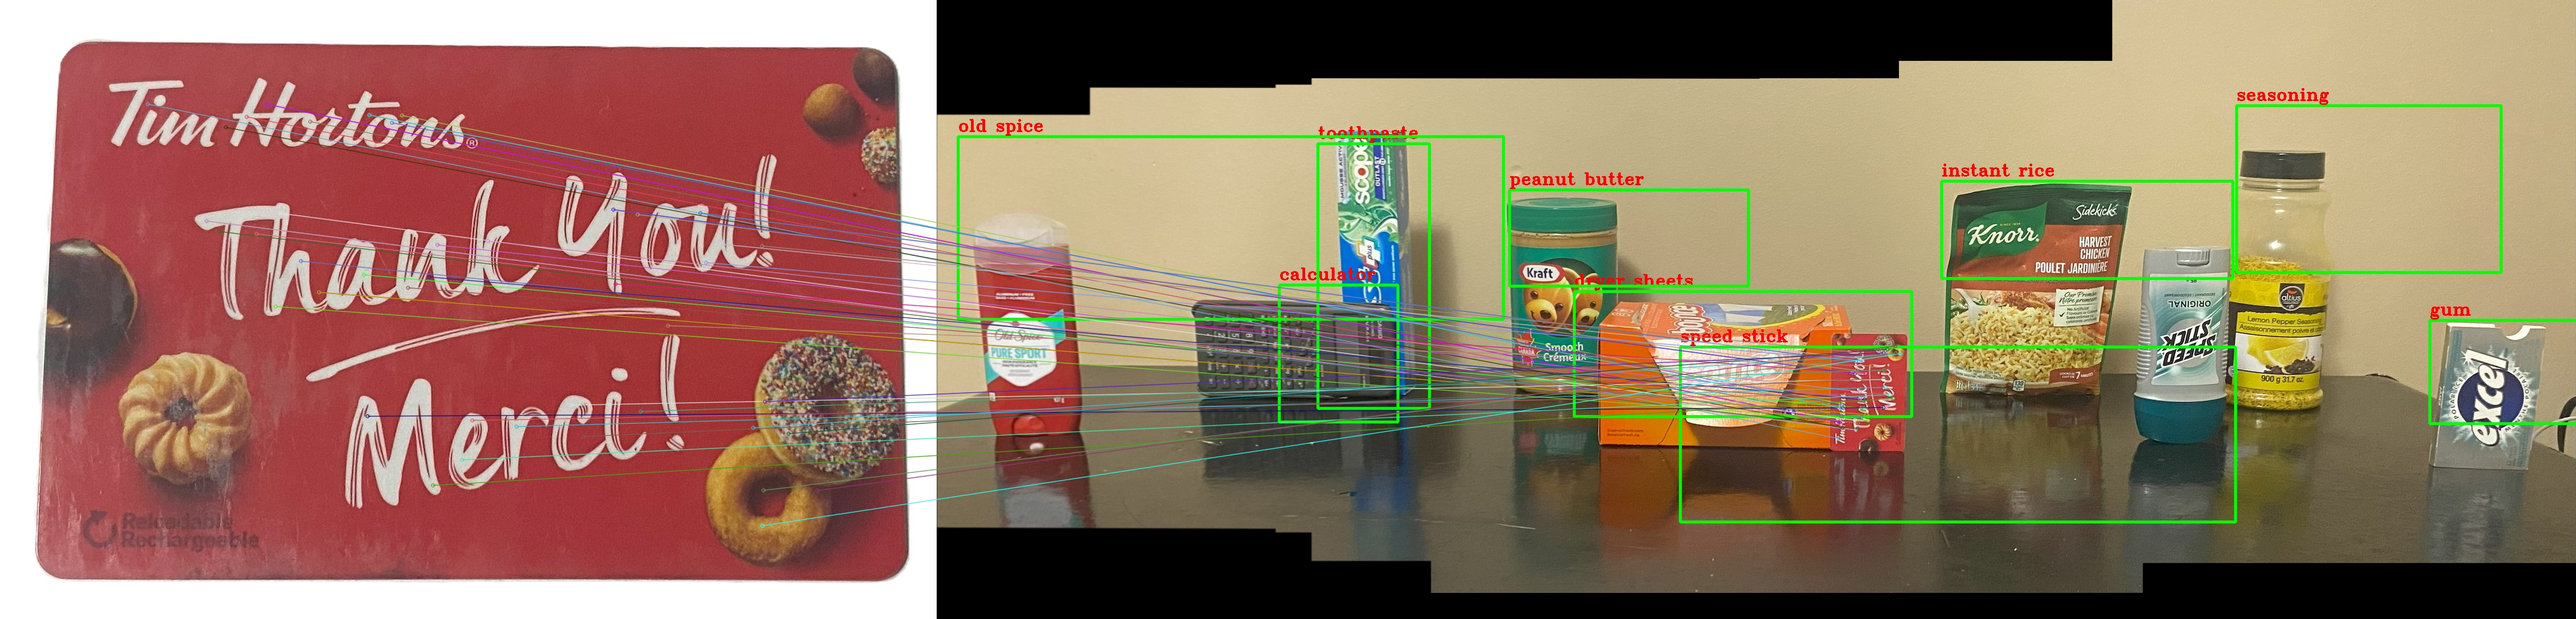
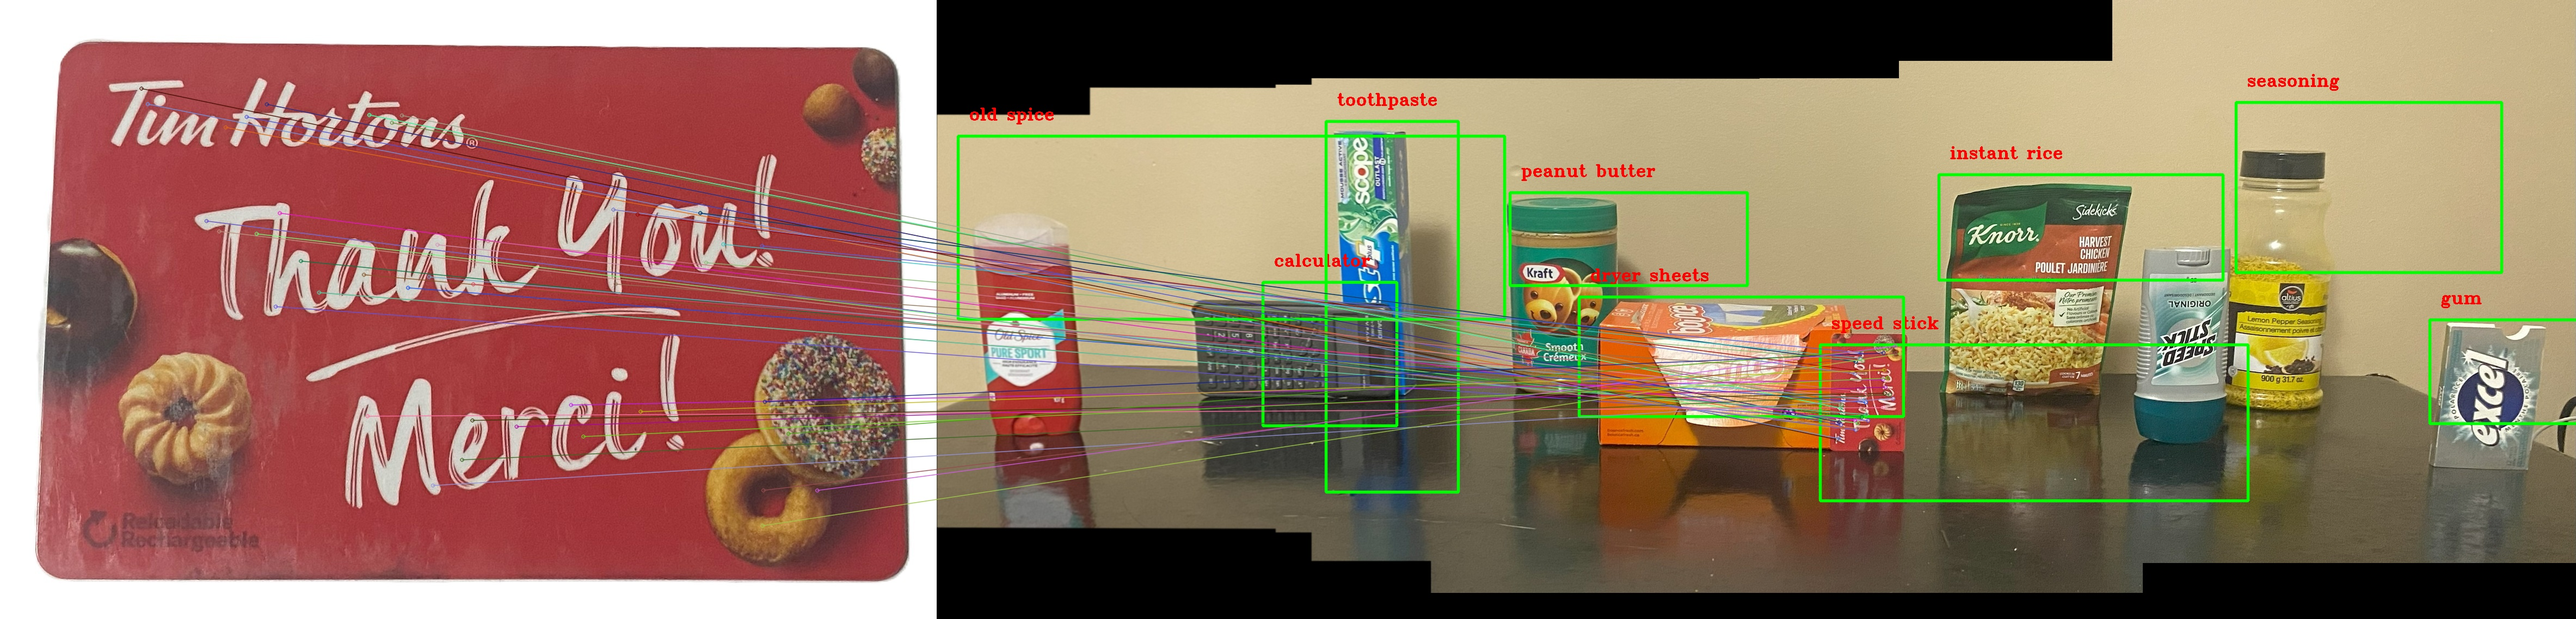
;

diff --git a/Code/Task3.py b/Code/Task3.py
@@ -17,6 +17,9 @@ from sklearn.cluster import DBSCAN
 DIRECTORY = "./Panorama"
 OBJECTS_DIRECTORY = "./Objects"
 
+kernel = np.array([[0, -1, 0],
+                   [-1, 5, -1],
+                   [0, -1, 0]])
 
 
 object_names = [
@@ -223,12 +226,10 @@ if __name__ == "__main__":
     # cv.waitKey(0)
     # cv.destroyAllWindows()
 
-    
     pano_kp, pano_des = detect_and_describe(stitched_image)
     for i, objectImageFile in enumerate(sorted(os.listdir(OBJECTS_DIRECTORY))):
-
         objectImage = cv.imread(os.path.join(OBJECTS_DIRECTORY, objectImageFile))
-        obj_kp, obj_des = detect_and_describe(cv.GaussianBlur(objectImage,(9,9),9))
+        obj_kp, obj_des = detect_and_describe(cv.GaussianBlur(objectImage,(9, 9), 3))
 
         matches = match_keypoints(obj_des, pano_des)
 
@@ -247,7 +248,7 @@ if __name__ == "__main__":
         cv.putText(
             stitched_image,
             object_names[i],
-            (x, y - 10),
+            (x+20, y- 30),
             cv.FONT_HERSHEY_TRIPLEX,
             1.0,
             (0,0, 255),
